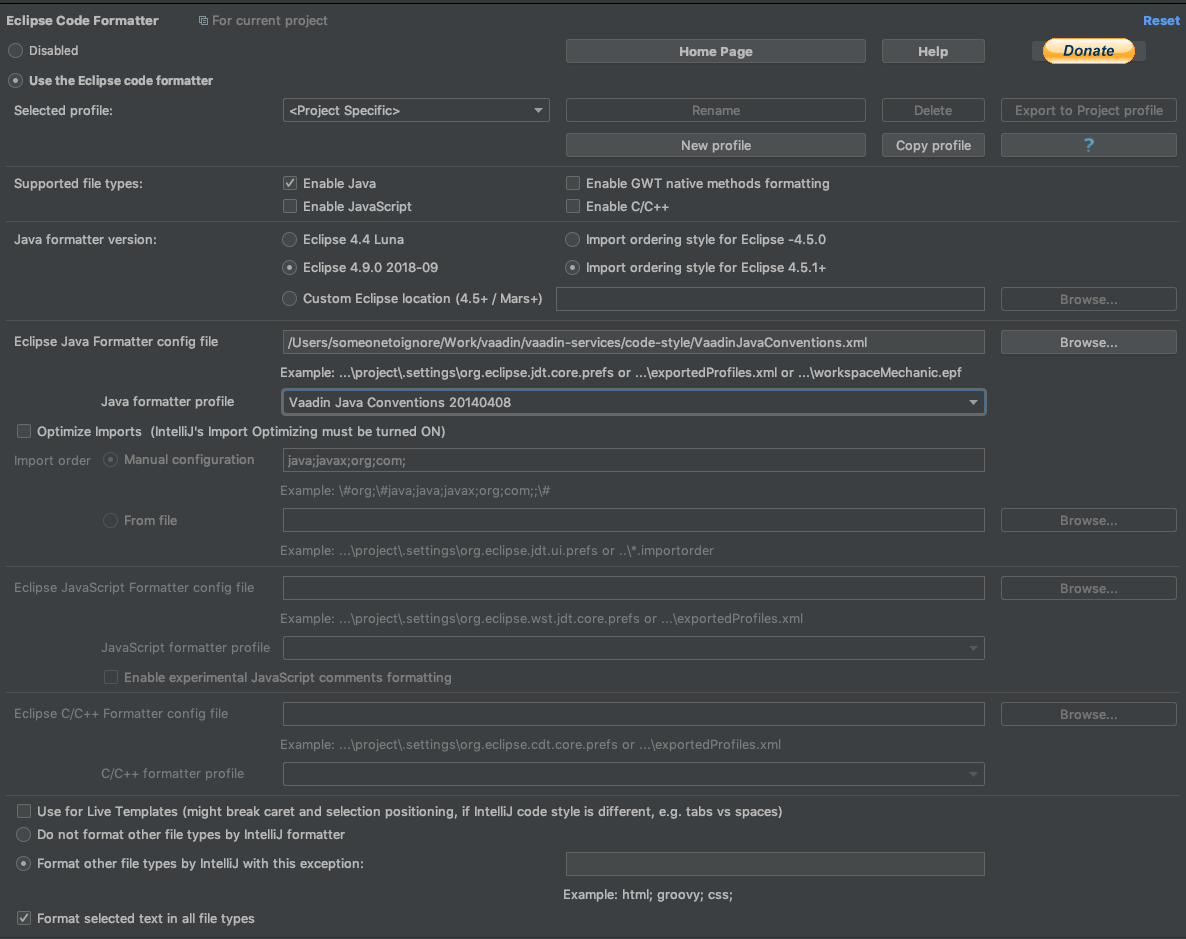
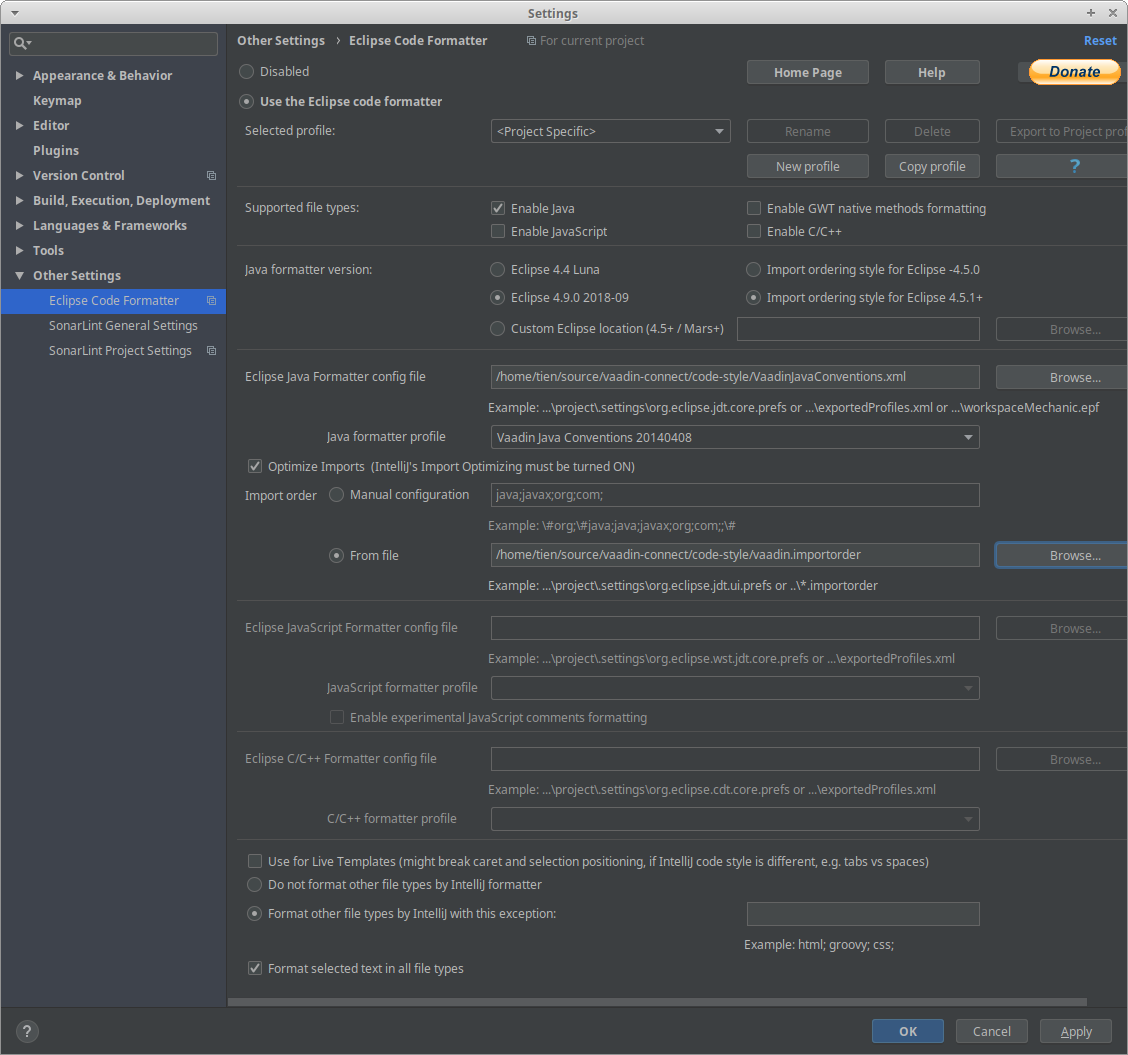
Add importorder config (#57)
* Add importorder config

diff --git a/code-style/README.md b/code-style/README.md
@@ -1,6 +1,7 @@
 This directory contains code style settings for the Java part of the project.
 
 The settings provided are in the Eclipse format in `VaadinJavaConventions.xml` file.
+The `vaadin.importorder` file should also be imported into Eclipse through `Preference -> Java -> Code Style -> Organize Imports -> Import...`
 
 Eclipse users should import those settings, Intellij Idea users are required to 
 install [Eclipse Code Formatter plugin](https://plugins.jetbrains.com/plugin/6546-eclipse-code-formatter)
